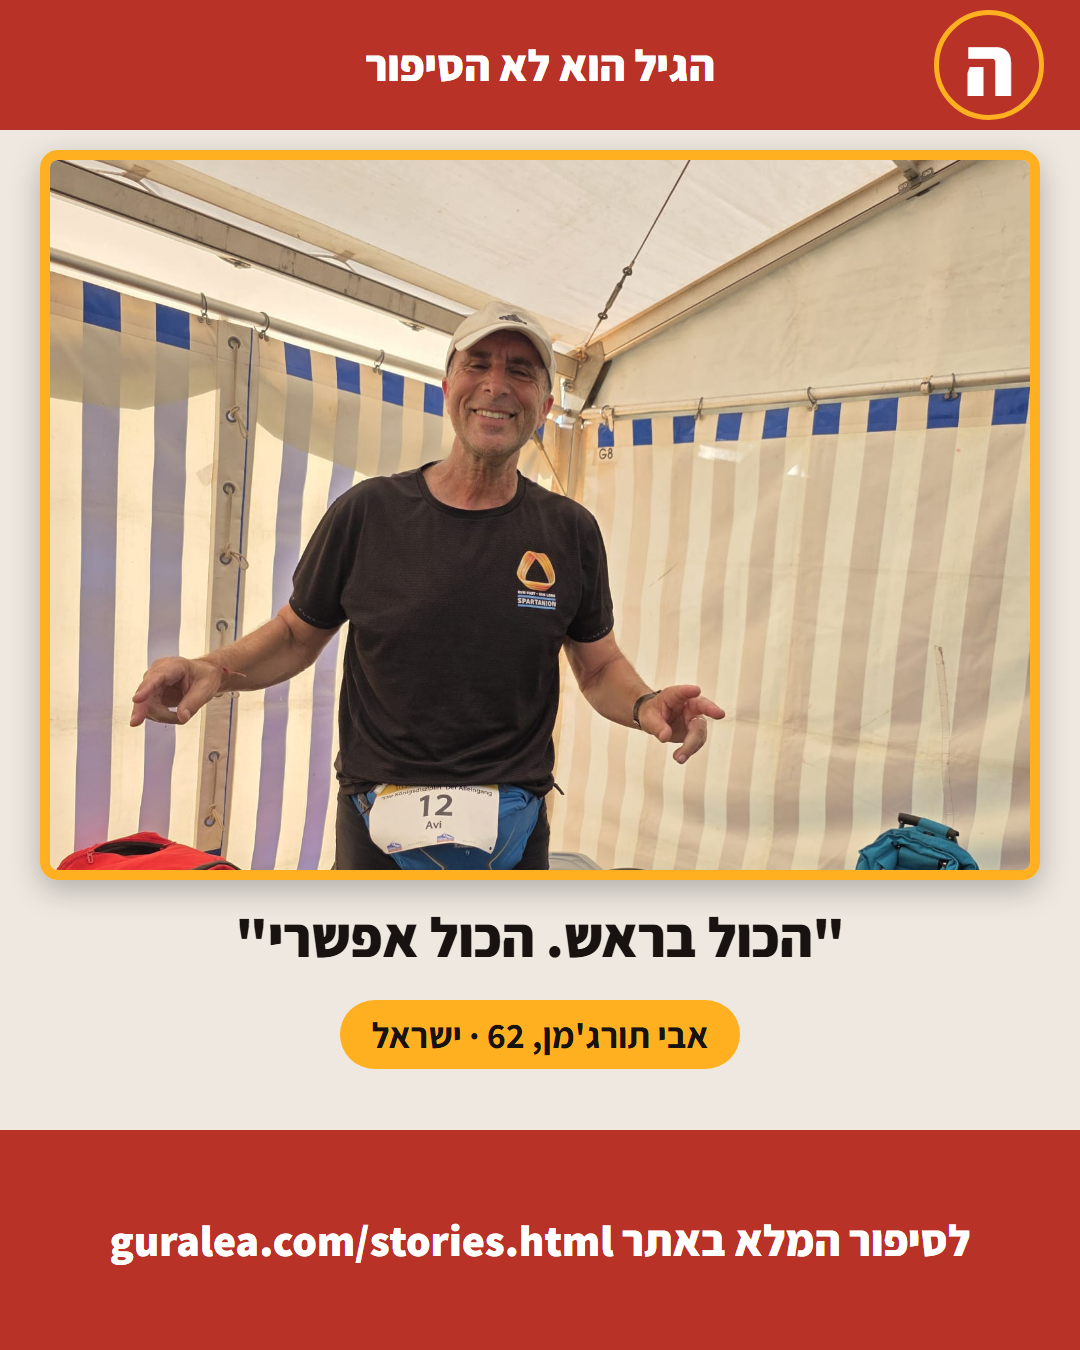
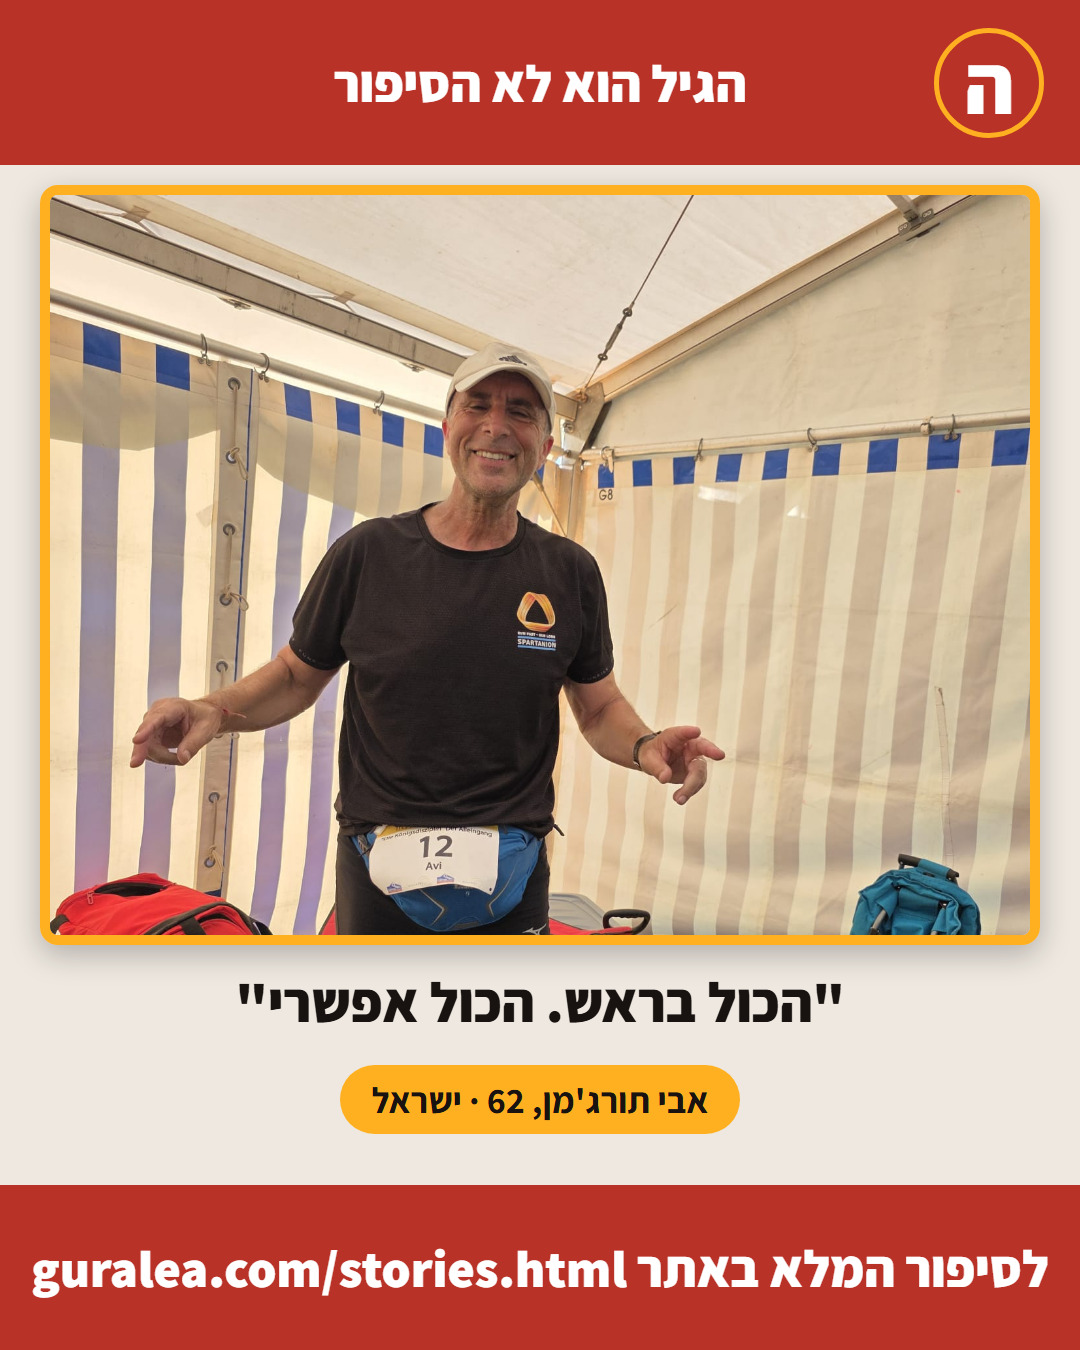
Lock final branded post template - approved by Leah, do not redesign
Equal-height top/bottom bands (165px each), matching 52px white text
in both, logo alone pinned right, wordmark centered independently.
Leah gave explicit final approval and an explicit standing
instruction to keep this exact structure for every future post
image - documented clearly in the skill so it isn't redesigned again
without asking her first.

diff --git a/.claude/skills/facebook-teaser/post-frame-template.html b/.claude/skills/facebook-teaser/post-frame-template.html
@@ -15,13 +15,13 @@
   }
   .top-band {
     background: #b83227;
-    height: 130px;
+    height: 165px;
     position: relative;
   }
   .wordmark {
     position: absolute; top: 0; left: 0; right: 0; height: 100%;
     display: flex; align-items: center; justify-content: center;
-    color: #fff; font-size: 44px; font-weight: 800; white-space: nowrap; text-align: center;
+    color: #fff; font-size: 52px; font-weight: 800; white-space: nowrap; text-align: center;
   }
   .logo-badge {
     position: absolute; top: 50%; right: 36px; transform: translateY(-50%);
@@ -31,30 +31,30 @@
     color: #fff; font-size: 84px; font-weight: 800;
   }
   .photo-area {
-    position: absolute; top: 150px; left: 40px; right: 40px; height: 730px;
+    position: absolute; top: 185px; left: 40px; right: 40px; height: 760px;
     border-radius: 18px; overflow: hidden; border: 10px solid #ffb020;
     box-shadow: 0 10px 30px rgba(0,0,0,0.25);
   }
   .photo-area img { width: 100%; height: 100%; object-fit: cover; object-position: center 20%; display: block; }
   .quote-area {
-    position: absolute; top: 900px; left: 15px; right: 15px; text-align: center;
+    position: absolute; top: 965px; left: 15px; right: 15px; text-align: center;
   }
   .quote-text {
     color: #181310; font-weight: 800;
     font-size: {{QUOTE_SIZE}}px;
     white-space: nowrap;
   }
-  .name-pill { position: absolute; top: 1000px; left: 0; right: 0; text-align: center; }
+  .name-pill { position: absolute; top: 1065px; left: 0; right: 0; text-align: center; }
   .name-pill span {
     display: inline-block; background: #ffb020; color: #181310; font-weight: 700;
     font-size: 36px; padding: 11px 32px; border-radius: 999px;
   }
   .bottom-band {
-    position: absolute; bottom: 0; left: 0; right: 0; height: 220px;
+    position: absolute; bottom: 0; left: 0; right: 0; height: 165px;
     background: #b83227; display: flex; align-items: center; justify-content: center;
     padding: 0 20px;
   }
-  .bottom-band span { color: #fff; font-size: 44px; font-weight: 800; white-space: nowrap; }
+  .bottom-band span { color: #fff; font-size: 52px; font-weight: 800; white-space: nowrap; }
 </style>
 </head>
 <body>

diff --git a/.claude/skills/facebook-teaser/SKILL.md b/.claude/skills/facebook-teaser/SKILL.md
@@ -296,9 +296,18 @@ There are 5 distinct social accounts in play, not the 4 assumed earlier - a pers
 
 Note this is distinct from the existing `hagil_lo_hasipor` brand's `lea_gura` Instagram entry in the secrets file - don't confuse the two. #4/#5 are closed, not pending - see the "DROPPED" note above.
 
-## Standing branded image template (built 2026-08-24)
+## Standing branded image template - LOCKED 2026-09-01, do not redesign
 
-**`.claude/skills/facebook-teaser/post-frame-template.html`** is the fixed, reusable design for every story post's image going forward - built once, reused every time, not redesigned per post. It has two placeholders to fill per post: `{{PHOTO_BASE64}}` (the story photo, base64-encoded JPEG) and `{{NAME}}, {{AGE}}` (e.g. "אמנון גאון, 76"). Layout: red top band with the site logo/wordmark, the photo in a gold-bordered frame, an amber "נבחרת ההשראה" pill + name/age below it, red bottom band with "guralea.com" - matches the site's actual brand colors (`css/style.css` `:root` tokens) and font (Assistant).
+**`.claude/skills/facebook-teaser/post-frame-template.html`** is the fixed, reusable design for every story post's image going forward - built once, reused every time. Leah went through many rounds correcting this exact layout on 2026-09-01 (see git history for the iterations) and gave explicit final approval + an explicit standing instruction to keep this structure for every future image - **do not change the layout, band heights, or font-size relationships without her asking for a specific change.** If a future session is tempted to "improve" the design, don't - ask her first, the same as any other public-facing change.
+
+**Locked structure (all pixel values final, 1080×1350 canvas):**
+- **Top red band, 165px tall.** The wordmark "הגיל הוא לא הסיפור" is centered independently (single line, 52px, white, bold) - it does NOT share a flex group with the logo. The circular logo badge (110px circle, "ה", 84px letter) is positioned separately, absolutely pinned to the right edge (`right: 36px`) - **the logo is the only element that goes right; the wordmark stays centered.** This was corrected multiple times - an RTL `flex-end` bug once flipped the logo to the left, and grouping the logo+wordmark together was also explicitly rejected - keep them as two independent positioned elements, not a flex pair.
+- **Photo**, gold-bordered frame, large (830px content area is not exact - read the actual CSS `.photo-area` for current numbers, this note is about structure not to be hand-copied).
+- **Quote line** (the person's own words, one line, `white-space: nowrap`, size varies per quote length via `{{QUOTE_SIZE}}` - pick a size that keeps it on one line, verify by rendering before sending).
+- **Amber name/age/location pill**: `{{NAME}}, {{AGE}} · {{LOCATION}}`.
+- **Bottom red band, same 165px height as the top band** (explicitly required - the two bands must always be equal height/width to each other) with "לסיפור המלא באתר guralea.com/stories.html", **same 52px font-size as the top wordmark** (also explicitly required - both white-text bands must match in size).
+
+**Placeholders to fill per post:** `{{PHOTO_BASE64}}`, `{{NAME}}`, `{{AGE}}`, `{{LOCATION}}`, `{{QUOTE}}`, `{{QUOTE_SIZE}}` (all instances via `replaceAll`).
 
 **How to generate the final flat image from this template (confirmed working 2026-08-24):**
 1. Base64-encode the chosen story photo, substitute both placeholders into a copy of the template (a scratchpad working copy, not the template file itself).
